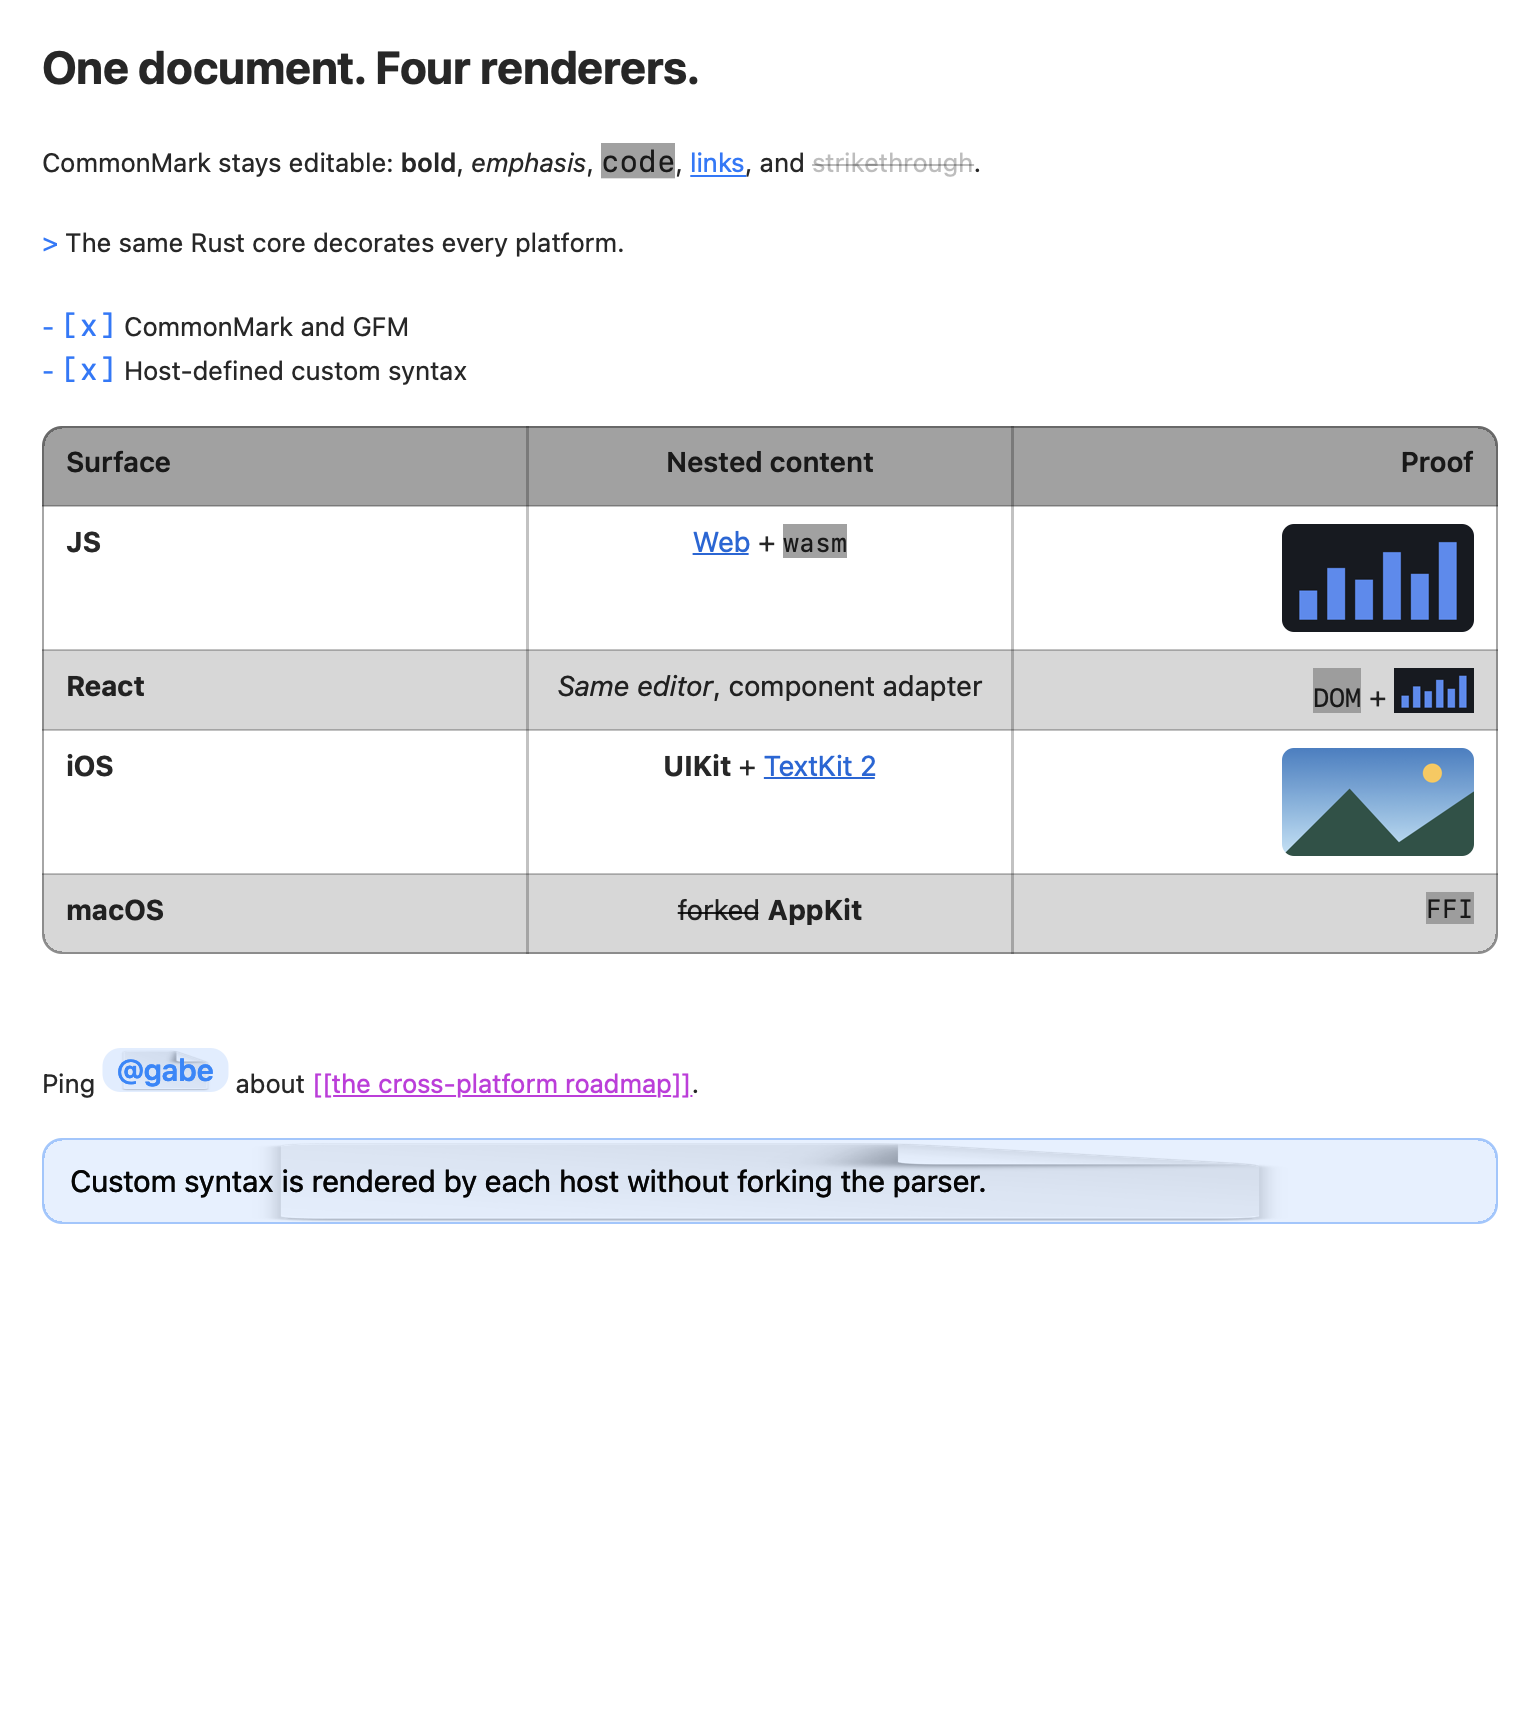
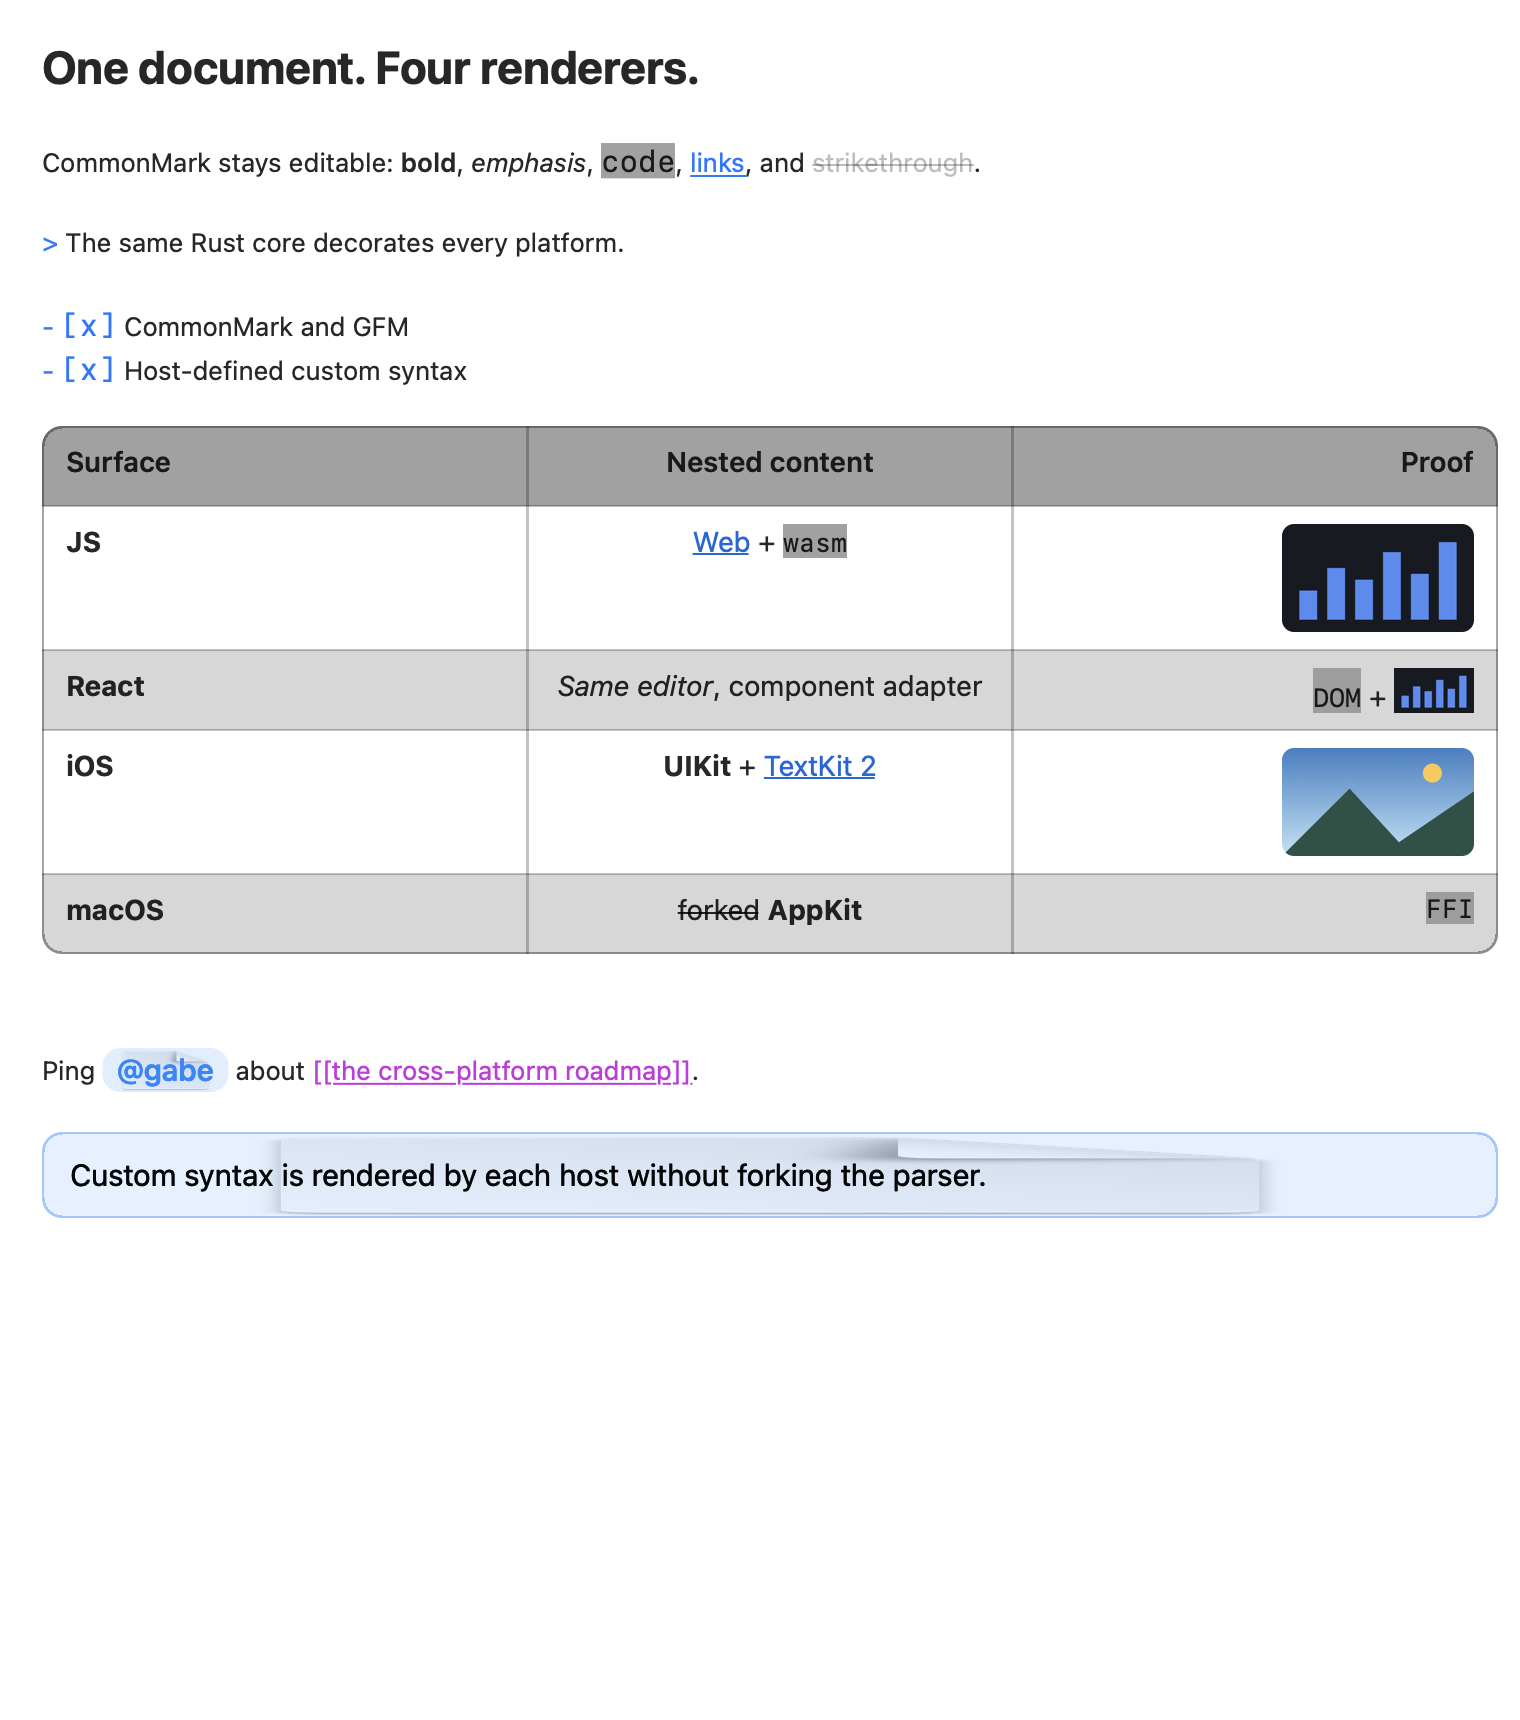
Align native inline widgets

Changed region(s): [[0.0309, 0.6163, 0.8349, 0.7087], [0.0309, 0.6163, 0.0618, 0.6471]]

diff --git a/apple/Sources/MDEApp/RendererTestMode.swift b/apple/Sources/MDEApp/RendererTestMode.swift
@@ -1,5 +1,6 @@
 import MDECore
 import MDEditorUI
+import MDEHost
 import UIKit
 
 /// A simulator-side renderer test. SwiftPM can exercise AppKit directly, but this
@@ -85,6 +86,7 @@ enum RendererTestMode {
                     ancestor.accessibilityIdentifier == "mde.table-image"
                 }
             }.isEmpty
+            let mentionAligned = mentionIsAligned(in: editor, source: source, views: views)
 
             let tableRange = (source as NSString).range(of: "| Surface")
             _ = editor.becomeFirstResponder()
@@ -106,6 +108,7 @@ enum RendererTestMode {
                 "mixedImage": mixedImage,
                 "imageRowsFit": imageRowsFit,
                 "noDuplicateImage": noDuplicateImage,
+                "mentionAligned": mentionAligned,
                 "revealed": revealed,
                 "restored": restored,
             ])
@@ -114,6 +117,30 @@ enum RendererTestMode {
 
     private static func descendants(of root: UIView) -> [UIView] {
         root.subviews.flatMap { [$0] + descendants(of: $0) }
+    }
+
+    private static func mentionIsAligned(
+        in editor: MarkdownTextView,
+        source: String,
+        views: [UIView]
+    ) -> Bool {
+        let mention = (source as NSString).range(of: "@gabe")
+        guard mention.location != NSNotFound,
+              let chip = views.first(where: { $0 is ChipView }),
+              let textStart = editor.position(
+                  from: editor.beginningOfDocument,
+                  offset: max(0, mention.location - 5)
+              ),
+              let textEnd = editor.position(
+                  from: editor.beginningOfDocument,
+                  offset: mention.location
+              ),
+              let textRange = editor.textRange(from: textStart, to: textEnd)
+        else { return false }
+
+        let textRect = editor.firstRect(for: textRange)
+        let chipRect = chip.convert(chip.bounds, to: editor)
+        return !textRect.isNull && abs(textRect.midY - chipRect.midY) <= 1.5
     }
 
     private static func ancestors(of view: UIView) -> [UIView] {

diff --git a/apple/Sources/MDEditorUI/Widgets.swift b/apple/Sources/MDEditorUI/Widgets.swift
@@ -60,6 +60,10 @@ final class WidgetAttachment: NSTextAttachment {
     let key: UInt64
     let tableModel: MarkdownTableModel?
     let openLink: ((String) -> Void)?
+    /// Inline host widgets are centered on this font's typographic line box. Block
+    /// widgets and externally resolved resources keep their existing baseline rules.
+    let baselineFont: PlatformFont
+    let isInline: Bool
     var fittingWidth: CGFloat = 320
 
     init(
@@ -70,6 +74,8 @@ final class WidgetAttachment: NSTextAttachment {
         resources: ResourceCache?,
         cache: DecorationApplier?,
         key: UInt64,
+        baselineFont: PlatformFont,
+        isInline: Bool,
         tableModel: MarkdownTableModel? = nil,
         openLink: ((String) -> Void)? = nil
     ) {
@@ -80,6 +86,8 @@ final class WidgetAttachment: NSTextAttachment {
         self.resources = resources
         self.cache = cache
         self.key = key
+        self.baselineFont = baselineFont
+        self.isInline = isInline
         self.tableModel = tableModel
         self.openLink = openLink
         super.init(data: nil, ofType: nil)
@@ -160,7 +168,10 @@ final class WidgetAttachment: NSTextAttachment {
             source: source,
             fittingWidth: width
         ) {
-            return CGRect(origin: .zero, size: size)
+            let y = isInline
+                ? (baselineFont.ascender + baselineFont.descender - size.height) / 2
+                : 0
+            return CGRect(origin: CGPoint(x: 0, y: y), size: size)
         }
         if roleName == "table", let tableModel {
             return CGRect(origin: .zero, size: TableWidgetView.size(for: tableModel, fittingWidth: width))

diff --git a/apple/Sources/MDEditorUI/DecorationApplier.swift b/apple/Sources/MDEditorUI/DecorationApplier.swift
@@ -378,6 +378,13 @@ final class DecorationApplier {
         for w in widgets.sorted(by: { $0.range.location > $1.range.location }) {
             guard let roleName = engine.roleName(w.role) else { continue }
             let source = ns.substring(with: w.range)
+            let local = NSRange(location: w.range.location - range.location, length: 1)
+            guard local.upperBound <= display.length else { continue }
+            let baselineFont = display.attribute(
+                .font,
+                at: local.location,
+                effectiveRange: nil
+            ) as? PlatformFont ?? theme.bodyFont
             let tableModel = roleName == "table"
                 ? MarkdownTableModel(
                     source: source,
@@ -395,12 +402,12 @@ final class DecorationApplier {
                 resources: resources,
                 cache: self,
                 key: w.key,
+                baselineFont: baselineFont,
+                isInline: w.kind == .inlineWidget,
                 tableModel: tableModel,
                 openLink: openLink
             )
             attachment.fittingWidth = max(containerWidth, 1)
-            let local = NSRange(location: w.range.location - range.location, length: 1)
-            guard local.upperBound <= display.length else { continue }
             display.replaceCharacters(in: local, with: NSAttributedString(attachment: attachment))
         }
         assert(display.length == range.length, "widget substitution changed the length")

diff --git a/apple/Tests/MDEditorUITests/MacRendererTests.swift b/apple/Tests/MDEditorUITests/MacRendererTests.swift
@@ -370,8 +370,22 @@ final class MacRendererTests: XCTestCase {
             backing.length,
             "substitution changed the length, which desynchronises every offset"
         )
-        XCTAssertNotNil(
+        let attachment = try XCTUnwrap(
             paragraph.attributedString.attribute(.attachment, at: 5, effectiveRange: nil)
+                as? WidgetAttachment
+        )
+        let bounds = attachment.attachmentBounds(
+            for: nil,
+            proposedLineFragment: .zero,
+            glyphPosition: .zero,
+            characterIndex: 5
+        )
+        let font = Theme().bodyFont
+        XCTAssertEqual(
+            bounds.midY,
+            (font.ascender + font.descender) / 2,
+            accuracy: 0.5,
+            "the mention chip is not vertically centered on the surrounding text"
         )
     }
 
